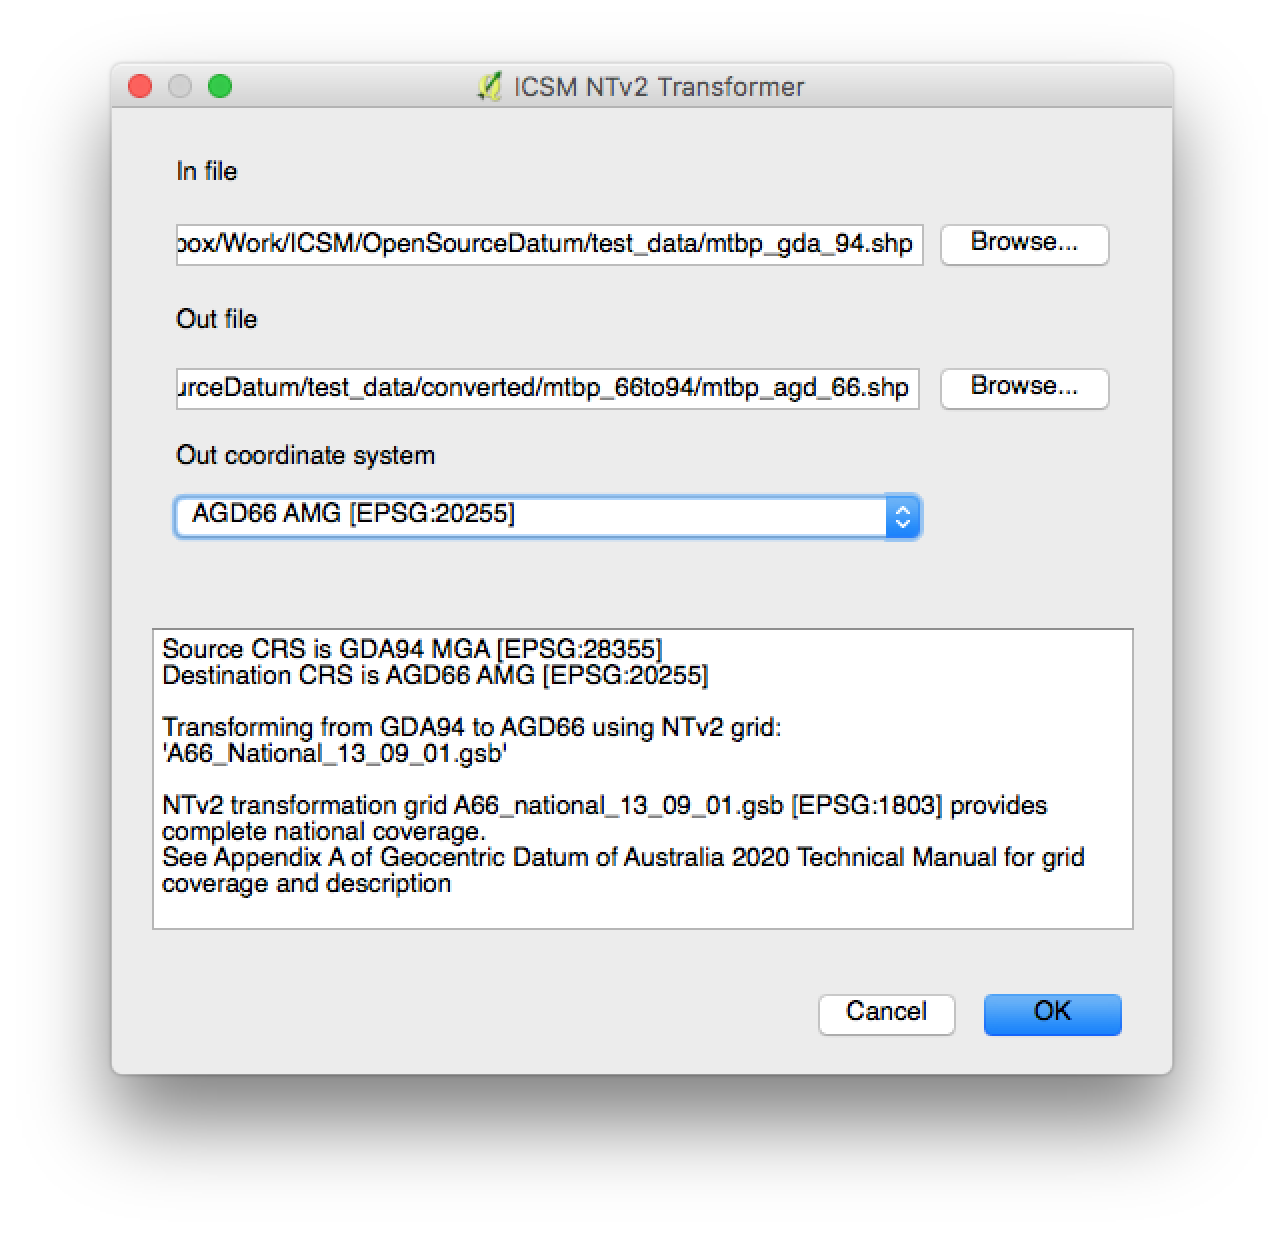
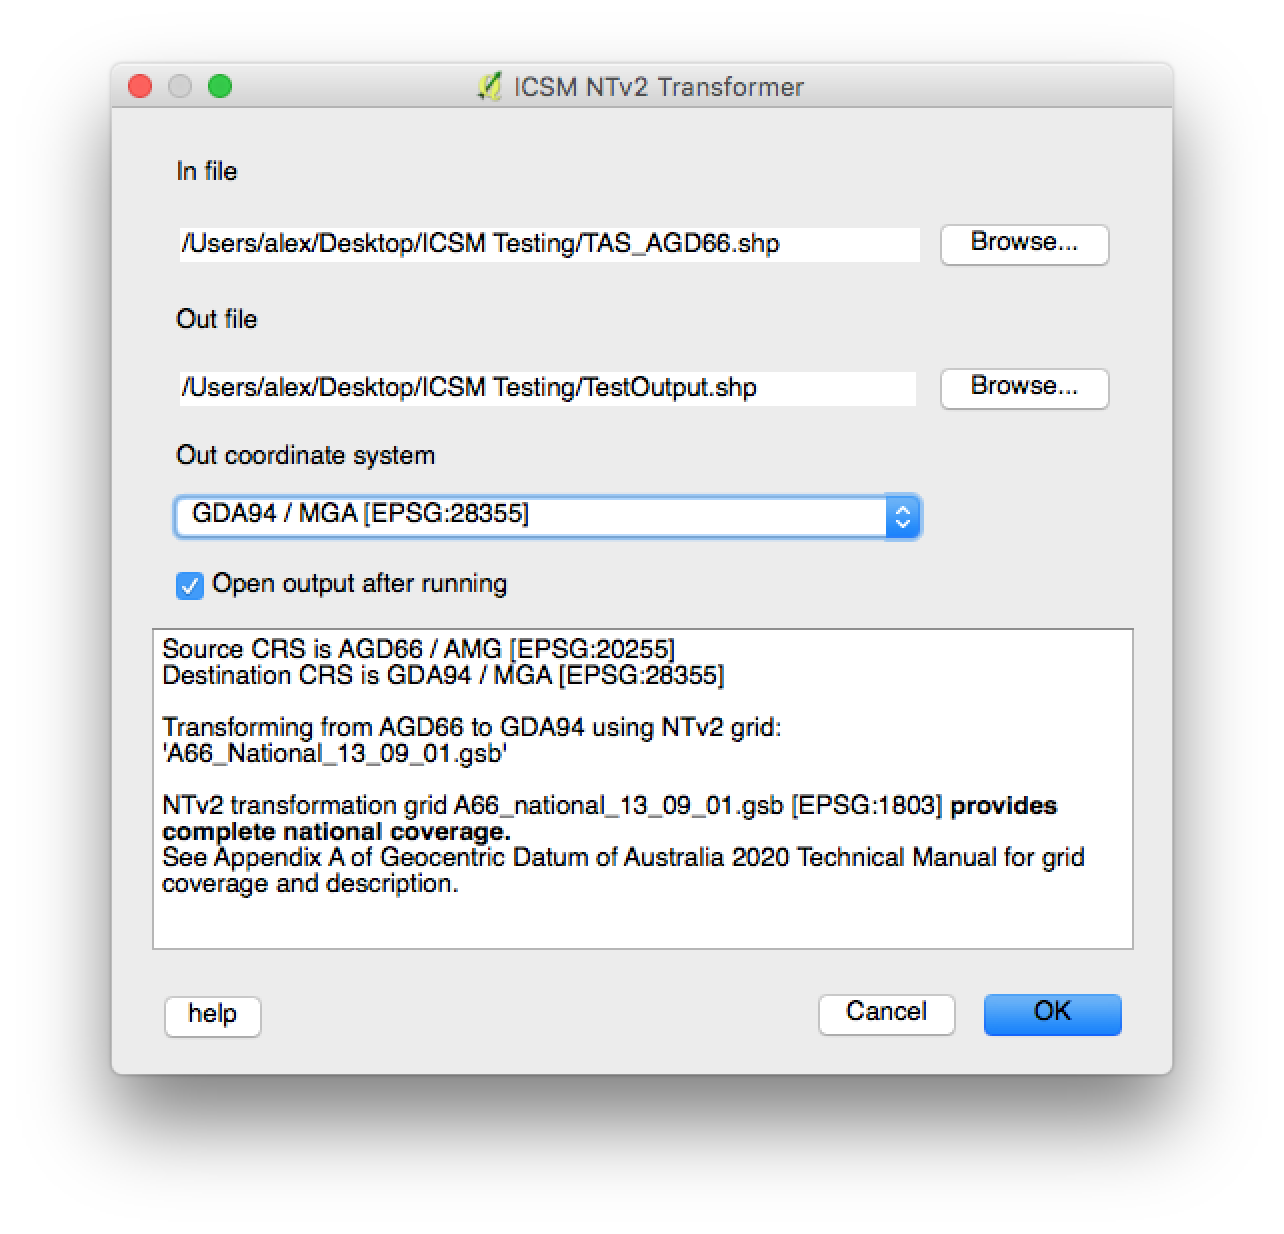
update help file

diff --git a/help/icsm_ntv2_transformer_docs.md b/help/icsm_ntv2_transformer_docs.md
@@ -26,17 +26,18 @@ When the plugin is installed, you should see an icon on your QGIS toolbar that l
 
 ## Running a vector or raster transformation
 
-In order to run a vector or raster transformation, choose a supported spatial file as an 'in file'. Most common formats will work. The chosen file will be analysed, in order to determine if it is supported, and it must be in a known coordinate reference system (CRS)
+In order to run a vector or raster transformation, choose a supported spatial file as an 'in file'. Most common formats will work. The chosen file will be analysed, in order to determine if it is supported, and it must be in a known coordinate reference system (CRS).
 
 To run a transformation, do the following:
  * Select an 'in file', which is the dataset to be transformed
  * (Optionally) select an 'out file', which will be overwritten with the transformed file
  * Choose an 'out coordinate system', which will determine the transformation to use
+ * You can check the option 'Open output after running' to load the resulting dataset into your workspace
  * Press 'OK' to run the transformation.
 
 ![Example plugin settings](./images/example_config.png)
 
-*Note that there is information about the transform that will be undertaken that is shown in the dialog under the plugin fields. This gives you an opportunity to understand what transformation grids will be used.*
+*Note: there is information about the transform that will be undertaken that is shown in the dialog under the plugin fields. This gives you an opportunity to understand what transformation grids will be used.*
 
 <div style="page-break-after: always;"></div>
 
@@ -50,11 +51,11 @@ Supported coordinate reference systems include:
  * AGD66 AMG Zones 29-57 (EPSG:202xx)
  * AGD84 AMG Zones 29-57 (EPSG:203xx)
  * GDA94 MGA Zones 29-57 (EPSG:293xx)
- * GDA2020 MGA (coming soon)
+ * GDA2020 MGA (EPSG:78xx)
  * AGD66 LonLat (EPSG:4202)
  * AGD84 LonLat (EPSG:4203)
  * GDA94 LonLat (EPSG:4283)
- * GDA2020 LonLat (coming soon)
+ * GDA2020 LonLat (EPSG:7844)
 
 
 <div style="page-break-after: always;"></div>

diff --git a/help/README.md b/help/README.md
@@ -2,3 +2,6 @@
 
 ## Building/Rendering
 This documentation is written in Markdown. You can render it to a PDF using the application `markdown-pdf`. In order to do this, you must first [install NodeJS](https://nodejs.org/en/download/) and then you can install with `npm install -g markdown-pdf`. On a system that supports make, you can then run `make render` and a pdf will appear in this directory. On another system, you can run the command manually, like this: `markdown-pdf ntv2_transformations_plugin_docs.md -o ntv2_transformations_plugin_docs.pdf`.
+
+## Reading the help
+If you're online, you can read the [documentation](help/icsm_ntv2_transformer_docs.md) at this link.

diff --git a/README.md b/README.md
@@ -4,9 +4,8 @@ This QGIS plugin provide a simple way to transform data from various Australian 
 
 Most importantly, it includes a precise transformation between GDA94 and GDA2020.
 
-# Help
-You can find out how to install by reading the [documentation](help/icsm_ntv2_transformer_docs.md).
+## Help
+You can find out how to install and use this plugin by reading the [documentation](help/icsm_ntv2_transformer_docs.md).
 
-# Issues
-If you find a bug, please lodge it on the issues page on GitHub.
-
+## Issues
+If you find a bug or have any questions, please lodge against the [project on GitHub](https://github.com/icsm-au/icsm_qgis_transformer/issues).
